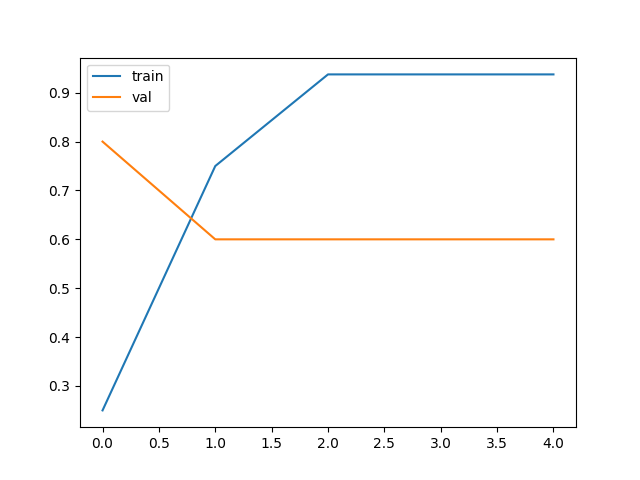
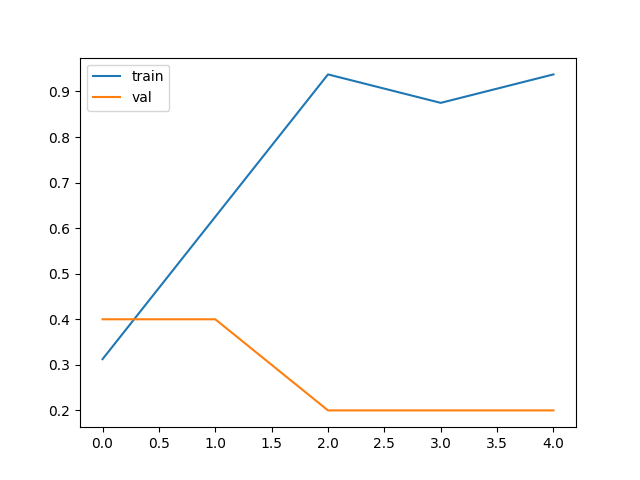
final fix model loading

diff --git a/app.py b/app.py
@@ -46,22 +46,34 @@ show_gradcam = st.sidebar.checkbox("Show Grad-CAM", True)
 threshold = st.sidebar.slider("Confidence Threshold", 0.0, 1.0, 0.5)
 
 # ================= LOAD MODEL =================
-model = None
+import os
+import urllib.request
+import streamlit as st
 
-try:
-    from keras.models import load_model
+MODEL_PATH = "model.h5"
 
-    MODEL_PATH = "model.h5"
[email redacted]_resource
 
-    # Download model if not present
-    if not os.path.exists(MODEL_PATH):
-        url = "https://drive.google.com/uc?export=download&id=1lOpMb2k2Bz-rY0j6G9ZcKbFzvtalw62O"
-        urllib.request.urlretrieve(url, MODEL_PATH)
+def load_my_model():
+    try:
+        from keras.models import load_model
 
-    model = load_model(MODEL_PATH)
+        # Download model if not present
+        if not os.path.exists(MODEL_PATH):
+            url = "https://drive.google.com/uc?export=download&id=1lOpMb2k2Bz-rY0j6G9ZcKbFzvtalw62O"
+            urllib.request.urlretrieve(url, MODEL_PATH)
+          
 
-except Exception as e:
-    st.warning("⚠️ Model not loaded. Running in demo mode.")
+        model = load_model(MODEL_PATH)
+        return model
+
+    except Exception as e:
+        st.error(f"Model loading failed: {e}")
+        return None
+
+
+model = load_my_model()
+
 
 IMG_SIZE = 224
 CLASSES = ["NORMAL", "PNEUMONIA", "COVID", "TUMOR"]